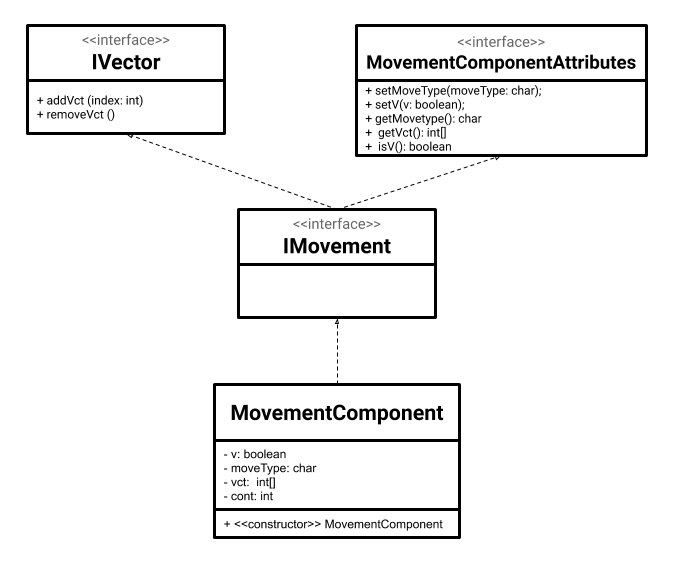
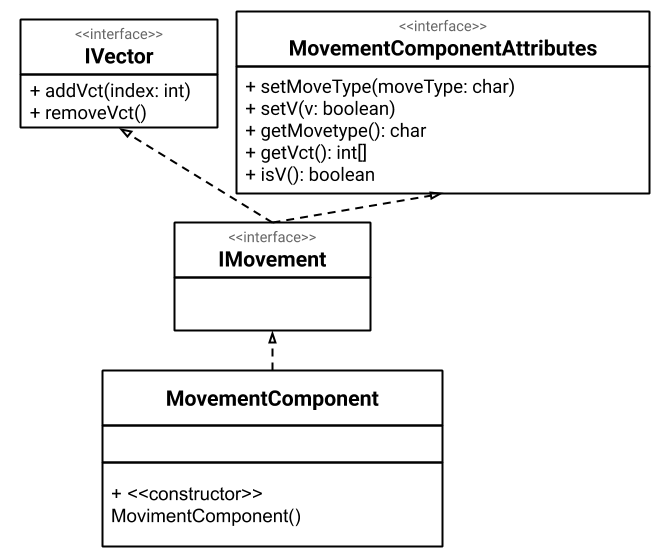
documentation of component updated

Changed region(s): [[0.0303, 0.0, 1.0, 1.0], [0.2424, 0.2752, 0.2727, 0.3058]]

diff --git a/src/src/TranslateMovement.java b/src/src/TranslateMovement.java
@@ -1,4 +1,4 @@
-public class TranslateMovement{
+public class TranslateMovement {
     private static int source; //index da primeira peca selecionada
     private static int target; //index da primeira segunda selecionada
     private static int cont = 0;

diff --git a/src/src/MovementComponentAttributes.java b/src/src/MovementComponentAttributes.java
@@ -1,12 +1,9 @@
 public interface MovementComponentAttributes {
-    void setMoveType(char moveType);
 
+	void setMoveType(char moveType);
     void setV(boolean v);
-
     char getMovetype();
-
     int[] getVct();
-
     boolean isV();
 
 }

diff --git a/src/src/IBoard.java b/src/src/IBoard.java
@@ -1,4 +1,2 @@
-
 public interface IBoard extends IBoardManager, IImages{
-
 }

diff --git a/README.md b/README.md
@@ -388,7 +388,7 @@ public class Bonus03Component extends Pieces {
 
 ## Diagrama Geral do Projeto
 
-![diagrama geral de organização](diagrama.png)
+![diagrama geral de organização](diagrama-orgazinacao.png)
 
 > O usuário clica em duas peças no tabuleiro, que enviam os dados para serem traduzidos, e devolve ao tabuleiro que pede a peça para verificar o movimento, enviando os dados destes para Movement que guarda as informações do movimento e depois as enviam para o tabuleiro atualizar a tela.
 
@@ -398,7 +398,7 @@ public class Bonus03Component extends Pieces {
 
 ## Componente BoardComponent
 
-O BoardComponent fornece um tabuleiro 9x9, onde serão colocadas peças e toda a função de manipulação destas serão feitas por ele.
+> O BoardComponent fornece um tabuleiro 9x9, onde serão colocadas peças e toda a função de manipulação destas serão feitas por ele.
 
 ![BoardComponent](diagrama-boardcomponent.png)
 
@@ -407,7 +407,7 @@ item | detalhamento
 ----- | -----
 Classe | BoardComponent
 Autores | Thaina Milene de Oliveira
-Interfaces | IBoard
+Interfaces | IBoardManager, IImages
 
 ### Interfaces
 
@@ -415,23 +415,48 @@ Interfaces associadas a esse componente:
 
 ![Diagrama IBoard](diagrama-iboard.png)
 
-## Detalhamento das Interfaces
-
-### Interface IBoard
-
-É responsável por toda a comunicação necessária entre as peças e o tabuleiro.
+Interface agregadora do componente em Java:
 
 ~~~java
-public interface IBoard {
-    void translate(int position) throws InvalidPlay;
-    IPieces[] getBoard();
+public interface IBoard extends IBoardManager, IImages{
+}
+~~~
+
+## Detalhamento das Interfaces
+### Interface IImages
+
+É a interface do pattern, responsável por adicionar imagens.
+
+~~~java
+import javax.swing.ImageIcon;
+
+public interface IImages {
+	void addImage(ImageIcon image);
 }
 ~~~
 
 Método | Objetivo
 -------| --------
-translate | Reconhece o index das peças clicadas, e envia para uma interface do tipo ITranslateMovimentC para criar um objeto que guarda os movimentos.
+addImages | adiciona uma imagem, sem estar associada a nenhuma peça no tabuleiro.
+
+### Interface IBoardManager
+
+É responsável por toda a comunicação necessária entre as peças e o tabuleiro.
+
+~~~java
+public interface IBoard {
+    IPieces[] getBoard();
+    void movePieces() throws InvalidPlay;
+}
+~~~
+
+Método | Objetivo
+-------| --------
+movePieces | move as peças de acordo com o tipo de movimento
 getBoard | Retorna o atributo board, que guarda as peças
+
+
+
 
 ## Componente NormalPiecesComponent
 
@@ -444,7 +469,8 @@ item | detalhamento
 ----- | -----
 Classe | NormalPiecesComponent
 Autores | Thaina Milene de Oliveira
-Interfaces | ICheckMovement, PiecesAttributes, ActionListener
+Interfaces | ICheckMovement, PiecesAttributes, ActionListener, IImages
+
 
 ### Interfaces
 
@@ -455,37 +481,33 @@ Interfaces associadas a esse componente:
 Interface agregadora do componente em Java:
 
 ~~~java
-public interface IPieces extends ICheckMovement, PiecesAttributes, ActionListener {
+public interface IPieces extends ICheckMovement, PiecesAttributes, ActionListener, IImages {
 }
 ~~~
 
 ## Detalhamento das Interfaces
+
+### Interface IImages
+
+É a interface do pattern, responsável por adicionar imagens.
+
+~~~java
+import javax.swing.ImageIcon;
+
+public interface IImages {
+	void addImage(ImageIcon image);
+}
+~~~
+
+Método | Objetivo
+-------| --------
+addImages | define os ícones das peças normais, adicionando imagens em um vetor.
 
 ### Interface ICheckMoviment
 
 É responsável por verificar se o movimento é válido.
 
 ~~~java
-        moves[0] = new MovementComponent();
-        moves[1] = new MovementComponent();
-        if ((index - board[target].getIndex()) * (index - board[target].getIndex()) == 1) { // pecas movendo na mesma linha
-            if (type == getPieceOnTop(target) && type == getPieceOnTop(target - 9)) {
-                moves[0].setV(true);
-                moves[0].setMoveType('c');
-                moves[0].addVct(target);
-                moves[0].addVct(target - 9);
-                moves[0].addVct(target - 18);
-                if (type == getPieceInBottom(target)) {
-                    moves[0].setMoveType('1');
-                    moves[0].addVct(target + 9);
-                }
-            }
-            if (type == getPieceInBottom(target) && type == getPieceInBottom(target + 9)) {
-                if (moves[0].isV()) {
-                    moves[0].setMoveType('b');
-                    moves[0].addVct(target + 18);
-                } else {
-                    moves[0].setV(true);
 public interface ICheckMovement {
     boolean verifyMovement(int target) throws InvalidPlay;
 }
@@ -533,7 +555,7 @@ item | detalhamento
 ----- | -----
 Classe | Bonus01Component
 Autores | Thaina Milene de Oliveira
-Interfaces | ICheckMovement, PiecesAttributes, ActionListener
+Interfaces | ICheckMovement, PiecesAttributes, ActionListener, IImages
 
 ### Interfaces
 
@@ -544,11 +566,27 @@ Interfaces associadas a esse componente:
 Interface agregadora do componente em Java:
 
 ~~~java
-public interface IPieces extends ICheckMovement, PiecesAttributes, ActionListener {
+public interface IPieces extends ICheckMovement, PiecesAttributes, ActionListener, IImages {
 }
 ~~~
 
 ## Detalhamento das Interfaces
+
+### Interface IImages
+
+É a interface do pattern, responsável por adicionar imagens.
+
+~~~java
+import javax.swing.ImageIcon;
+
+public interface IImages {
+	void addImage(ImageIcon image);
+}
+~~~
+
+Método | Objetivo
+-------| --------
+addImages | define os ícones das peças do tipo bônus 01
 
 ### Interface ICheckMoviment
 
@@ -602,7 +640,7 @@ item | detalhamento
 ----- | -----
 Classe | Bonus02Component
 Autores | Thaina Milene de Oliveira
-Interfaces | ICheckMovement, PiecesAttributes, ActionListener
+Interfaces | ICheckMovement, PiecesAttributes, ActionListener, IImages
 
 ### Interfaces
 
@@ -613,11 +651,29 @@ Interfaces associadas a esse componente:
 Interface agregadora do componente em Java:
 
 ~~~java
-public interface IPieces extends ICheckMovement, PiecesAttributes, ActionListener {
+public interface IPieces extends ICheckMovement, PiecesAttributes, ActionListener, IImages {
 }
 ~~~
 
 ## Detalhamento das Interfaces
+
+
+### Interface IImages
+
+É a interface do pattern, responsável por adicionar imagens.
+
+~~~java
+import javax.swing.ImageIcon;
+
+public interface IImages {
+	void addImage(ImageIcon image);
+}
+~~~
+
+Método | Objetivo
+-------| --------
+addImages | define os ícones das peças do tipo bônus 02
+
 
 ### Interface ICheckMoviment
 
@@ -671,7 +727,7 @@ item | detalhamento
 ----- | -----
 Classe | Bonus03Component
 Autores | Thaina Milene de Oliveira
-Interfaces | ICheckMovement, PiecesAttributes, ActionListener
+Interfaces | ICheckMovement, PiecesAttributes, ActionListener, IImages
 
 ### Interfaces
 
@@ -682,11 +738,29 @@ Interfaces associadas a esse componente:
 Interface agregadora do componente em Java:
 
 ~~~java
-public interface IPieces extends ICheckMovement, PiecesAttributes, ActionListener {
+public interface IPieces extends ICheckMovement, PiecesAttributes, ActionListener, IImages {
 }
 ~~~
 
 ## Detalhamento das Interfaces
+
+
+### Interface IImages
+
+É a interface do pattern, responsável por adicionar imagens.
+
+~~~java
+import javax.swing.ImageIcon;
+
+public interface IImages {
+	void addImage(ImageIcon image);
+}
+~~~
+
+Método | Objetivo
+-------| --------
+addImages | define os ícones das peças do tipo bônus 03
+
 
 ### Interface ICheckMoviment
 
@@ -740,7 +814,7 @@ item | detalhamento
 ----- | -----
 Classe | ScoreboardComponent
 Autores | Thaina Milene de Oliveira
-Interfaces | IRound, IScore, ActionListener
+Interfaces | IRound, IScore, ActionListener, IImages
 
 ### Interfaces
 
@@ -751,11 +825,27 @@ Interfaces associadas a esse componente:
 Interface agregadora do componente em Java:
 
 ~~~java
-public interface IScoreboard extends IScore, IRound, ActionListener {
+public interface IScoreboard extends IScore, IRound, ActionListener, IImages {
 }
 ~~~
 
 ## Detalhamento das Interfaces
+
+### Interface IImages
+
+É a interface do pattern, responsável por adicionar imagens.
+
+~~~java
+import javax.swing.ImageIcon;
+
+public interface IImages {
+	void addImage(ImageIcon image);
+}
+~~~
+
+Método | Objetivo
+-------| --------
+addImages | define as imagens do placar, e do contador de rodadas
 
 ### Interface IScore
 
@@ -854,47 +944,7 @@ Método | Objetivo
 addVct | adiciona um índice ao vetor, na posição que o contador estivel
 removeVct() | faz um contador voltar uma posição, para assim o último elemento ser sobrescrito por outro
 
-## Componente TranslateMovementComponent
 
-O TranslateMovementComponent é responsável por traduzir e guardar em um objeto os índices das peças trocadas.
-
-![TranslateMovementComponent](diagrama-translatemovementcomponent.png)
-
-**Ficha Técnica**
-item | detalhamento
------ | -----
-Classe | TranslateMovementComponent
-Autores | Thaina Milene de Oliveira
-Interfaces | ITranslateMovementC
-
-### Interfaces
-
-Interfaces associadas a esse componente:
-
-![Diagrama ITranslateMovementC](diagrama-itranslatemovementc.png)
-
-## Detalhamento da Interface
-
-### Interface ITranslateMovementC
-
-
-Dá acesso aos atributos da classe.
-
-~~~java
-public interface ITranslateMovementC {
-    int getSource();
-    int getTarget();
-    void setTarget(int target) throws NonAdjacentPieces;
-    void setSource(int source);
-}
-~~~
-
-Método | Objetivo
--------| --------
-setSource | recebe como parâmetro um inteiro que representa a posição da primeira peça clicada
-setTarget | recebe como parâmetro um inteiro que representa a posição da segunda peça clicada
-getSource| retorna a posição da primeira peça
-getTarget| retorna a posição da segunda peça
 
 # Plano de Exceções1
 
